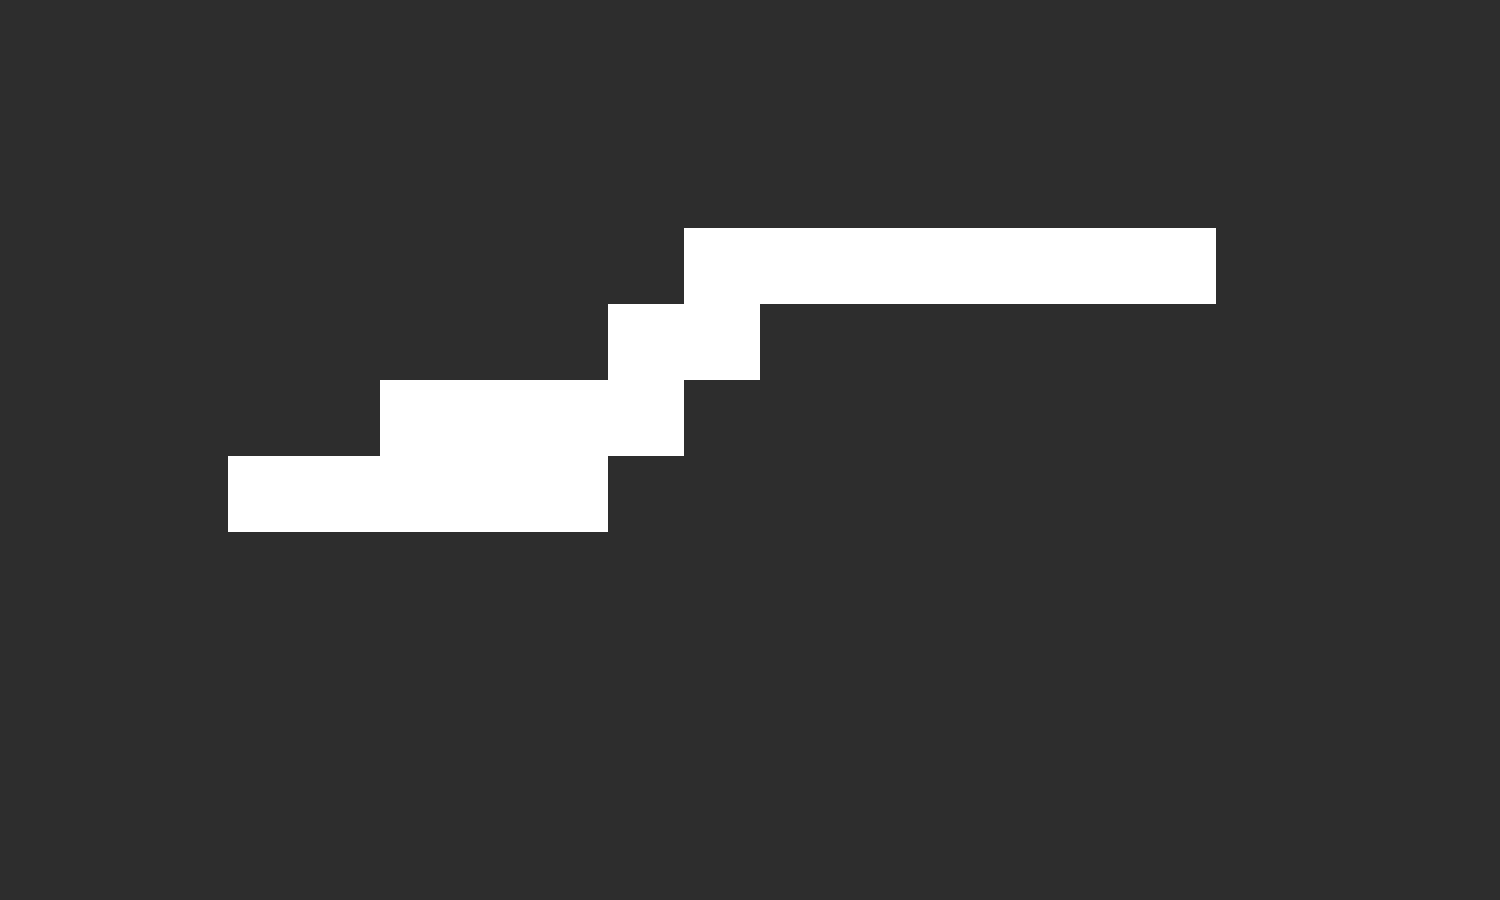
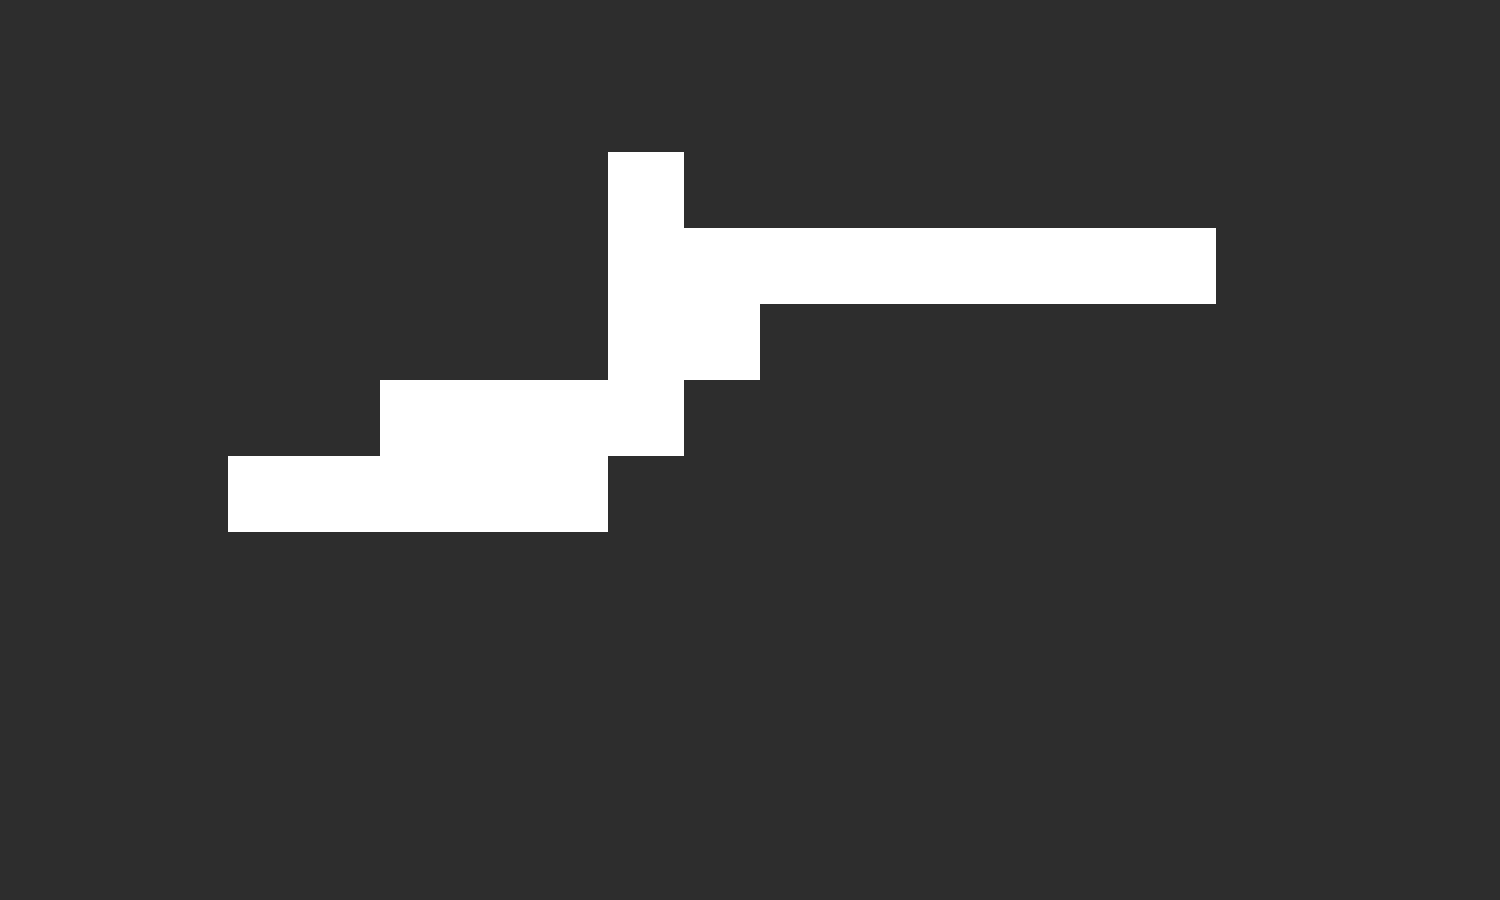
Box can be moved, Can collide with player and wall

Changed region(s): [[0.3987, 0.1556, 0.46, 0.3422]]

diff --git a/src/Player.java b/src/Player.java
@@ -16,8 +16,9 @@ public class Player implements KeyListener{
     private Engine engine;
     private int x, y, frameNumber, framesPassed, velocity, velocityTimer;
     final private int SCALE = 2;
-    private boolean up, down, left, right, facingRight, facingLeft, jumpAnimation, inAir, available, active;
+    private boolean up, down, left, right, facingRight, facingLeft, jumpAnimation, inAir, available, active, onTopOfBox;
     private Rectangle collisionBox, onCollisionBox;
+    private Box connectedBox;
     //3 child classes that will be the mage knight and ?
     public Player(Engine engine) {
         this.engine = engine;
@@ -239,31 +240,62 @@ public class Player implements KeyListener{
         for (Box box: boxes) {
             if ((box.getY() + 32 >= collisionBox.getY() + collisionBox.getHeight()) && (box.getY() <= collisionBox.getY() + collisionBox.getHeight()) && ((box.getX() < collisionBox.getX() && box.getX() + 32 > collisionBox.getX()) || (box.getX() < collisionBox.getX() + collisionBox.getWidth() && box.getX() + 32 > collisionBox.getX() + collisionBox.getWidth()))) {
                 onCollisionBox = box.getCollisionBox();
+                onTopOfBox = true;
                 return true;
             }
         }
+        onTopOfBox = false;
         return false;
     }
     public boolean boxOnLeft(ArrayList<Box> boxes) {
         for (Box box: boxes) {
-//            System.out.println(box.getX() + 32 + "    " + x);
-            if ((box.getX() + 32 >= collisionBox.getX()) && (box.getX() <= collisionBox.getX()) && ((box.getY() < collisionBox.getY() && box.getY() + 32 > collisionBox.getY()) || (box.getY() < (collisionBox.getY() + collisionBox.getHeight()) && box.getY() + 32 > collisionBox.getY()  + collisionBox.getHeight()))) {
-                System.out.println("ASD");
-                return true;
+            if (!onTopOfBox){
+                if ((box.getX() + 32 >= collisionBox.getX()) && (box.getX() <= collisionBox.getX()) && ((box.getY() <= collisionBox.getY() && box.getY() + 32 >= collisionBox.getY()) || (box.getY() <= (collisionBox.getY() + collisionBox.getHeight()) && box.getY() + 32 >= collisionBox.getY() + collisionBox.getHeight()))) {
+                    connectedBox = box;
+                    return true;
+                }
             }
         }
         //first two statements determine if the player has clipped into the wall. The next one determines if the player is on the same y level as the wall
+        connectedBox = null;
         return false;
     }
 
     public boolean boxOnRight(ArrayList<Box> boxes) {
         for (Box box: boxes) {
-            if ((box.getX() <= collisionBox.getX() + collisionBox.getWidth()) && (box.getX() + 32 >= collisionBox.getX() + collisionBox.getWidth()) && ((box.getY() < collisionBox.getY() && box.getY() + 32 > collisionBox.getY()) || (box.getY() < collisionBox.getY() + collisionBox.getHeight() && box.getY() + 32 > collisionBox.getY()  + collisionBox.getHeight()))) {
-                return true;
+            if (!onTopOfBox) {
+                if ((box.getX() <= collisionBox.getX() + collisionBox.getWidth()) && (box.getX() + 32 >= collisionBox.getX() + collisionBox.getWidth()) && ((box.getY() <= collisionBox.getY() && box.getY() + 32 >= collisionBox.getY()) || (box.getY() <= collisionBox.getY() + collisionBox.getHeight() && box.getY() + 32 >= collisionBox.getY() + collisionBox.getHeight()))) {
+                    connectedBox = box;
+                    return true;
+                }
             }
         }
+        connectedBox = null;
         return false;
     }
+
+//    public boolean boxOnLeft(ArrayList<Box> boxes) {
+//        for (Box box: boxes) {
+//            if ((box.getX() + 32 >= collisionBox.getX()) && (box.getX() <= collisionBox.getX()) && ((box.getY() < collisionBox.getY() + 1 && box.getY() + 32 > collisionBox.getY() - 1) || (box.getY() < (collisionBox.getY() + collisionBox.getHeight() + 1) && box.getY() + 32 > collisionBox.getY()  + collisionBox.getHeight() - 1))) {
+//                connectedBox = box;
+//                return true;
+//            }
+//        }
+//        //first two statements determine if the player has clipped into the wall. The next one determines if the player is on the same y level as the wall
+//        connectedBox = null;
+//        return false;
+//    }
+//
+//    public boolean boxOnRight(ArrayList<Box> boxes) {
+//        for (Box box: boxes) {
+//            if ((box.getX() <= collisionBox.getX() + collisionBox.getWidth()) && (box.getX() + 32 >= collisionBox.getX() + collisionBox.getWidth()) && ((box.getY() <= collisionBox.getY() && box.getY() + 32 >= collisionBox.getY()) || (box.getY() <= collisionBox.getY() + collisionBox.getHeight() && box.getY() + 32 >= collisionBox.getY()  + collisionBox.getHeight()))) {
+//                connectedBox = box;
+//                return true;
+//            }
+//        }
+//        connectedBox = null;
+//        return false;
+//    }
 
     public boolean reachEnd(Rectangle portal) {
         if (portal.contains(collisionBox.getCenterX(), collisionBox.getCenterY())) {
@@ -274,6 +306,10 @@ public class Player implements KeyListener{
             return true;
         }
         return false;
+    }
+
+    public Box getConnectedBox() {
+        return connectedBox;
     }
 
     public boolean isActive() {
@@ -533,6 +569,7 @@ public class Player implements KeyListener{
                     break;
                 case KeyEvent.VK_LEFT:
                     left = false;
+                    connectedBox = null;
                     if (!jumpAnimation) {
                         frameNumber = 0;
                     }
@@ -542,6 +579,7 @@ public class Player implements KeyListener{
                     break;
                 case KeyEvent.VK_RIGHT:
                     right = false;
+                    connectedBox = null;
                     if (!jumpAnimation) {
                         frameNumber = 0;
                     }

diff --git a/src/Box.java b/src/Box.java
@@ -34,6 +34,55 @@ public class Box {
         }
         return false;
     }
+    public boolean wallOnLeft(ArrayList<Rectangle> rectangles, int x) {
+        for (Rectangle rect: rectangles) {
+            if ((rect.getX() + rect.getWidth() >= x) && (rect.getX() <= x) && ((rect.getY() < collisionBox.getY() && rect.getY() + rect.getHeight() > collisionBox.getY()) || (rect.getY() < (collisionBox.getY() + collisionBox.getHeight()) && rect.getY() + rect.getHeight() > collisionBox.getY()  + collisionBox.getHeight()))) {
+                return true;
+            }
+        }
+        //first two statements determine if the player has clipped into the wall. The next one determines if the player is on the same y level as the wall
+        return false;
+    }
+
+    public boolean wallOnRight(ArrayList<Rectangle> rectangles, int x) {
+        for (Rectangle rect: rectangles) {
+            if ((rect.getX() <= x + collisionBox.getWidth()) && (rect.getX() + rect.getWidth() >= x + collisionBox.getWidth()) && ((rect.getY() < collisionBox.getY() && rect.getY() + rect.getHeight() > collisionBox.getY()) || (rect.getY() < collisionBox.getY() + collisionBox.getHeight() && rect.getY() + rect.getHeight() > collisionBox.getY()  + collisionBox.getHeight()))) {
+                return true;
+            }
+        }
+        return false;
+    }
+
+    public boolean playerOnLeft(ArrayList<Player> players, int x) {
+        for (Player player: players) {
+            if ((player.getX() + player.getCollisionBox().width >= x) && (player.getX() <= x) && ((player.getY() < collisionBox.getY() && player.getY() + player.getCollisionBox().height > collisionBox.getY()) || (player.getY() < (collisionBox.getY() + collisionBox.getHeight()) && player.getY() + player.getCollisionBox().height > collisionBox.getY()  + collisionBox.getHeight()))) {
+                return true;
+            }
+        }
+        //first two statements determine if the player has clipped into the wall. The next one determines if the player is on the same y level as the wall
+        return false;
+    }
+
+    public boolean playerOnRight(ArrayList<Player> players, int x) {
+        for (Player player: players) {
+            if ((player.getCollisionBox().x + engine.getSCALE() <= x + collisionBox.getWidth()) && (player.getCollisionBox().x + engine.getSCALE() + player.getCollisionBox().width >= x + collisionBox.getWidth()) && ((player.getY() < collisionBox.getY() && player.getY() + player.getCollisionBox().height > collisionBox.getY()) || (player.getY() < collisionBox.getY() + collisionBox.getHeight() && player.getY() + player.getCollisionBox().height > collisionBox.getY()  + collisionBox.getHeight()))) {
+                return true;
+            }
+        }
+        return false;
+    }
+    public void changeX(int change) {
+        if (change > 0) {
+            if (!wallOnRight(engine.getLevelLayout().getWalls(), x + change) && !playerOnRight(engine.getLevelLayout().getAvailableCharacters(), x + change)) {
+                x += change;
+            }
+        }
+        if (change < 0) {
+            if (!wallOnLeft(engine.getLevelLayout().getWalls(), x + change) && !playerOnLeft(engine.getLevelLayout().getAvailableCharacters(), x + change)) {
+                x += change;
+            }
+        }
+    }
     public void update() {
         velocity++;
         if (!touchingPlatform(engine.getLevelLayout().getWalls())) {

diff --git a/src/Knight.java b/src/Knight.java
@@ -16,4 +16,16 @@ public class Knight extends Player {
             super.setWalkL(ImageIO.read(new File("image/Knight/Knight_WalkL.png")));
         } catch (IOException e) {}
     }
+
+    public void update() {
+        super.update();
+        if (super.getConnectedBox() != null) {
+            if (super.isFacingRight()) {
+                super.getConnectedBox().changeX(2);
+            }
+            else if (super.isFacingLeft()) {
+                super.getConnectedBox().changeX(-2);
+            }
+        }
+    }
 }

diff --git a/src/LevelLayout.java b/src/LevelLayout.java
@@ -227,6 +227,9 @@ public class LevelLayout {
                     character.update();
                 }
             }
+            for (Box box: boxes) {
+                box.update();
+            }
             //not really sure why this is needed. For some reason it needs two separate updates to actually bring back the player
             if (resetting) {
                 resetStage();
